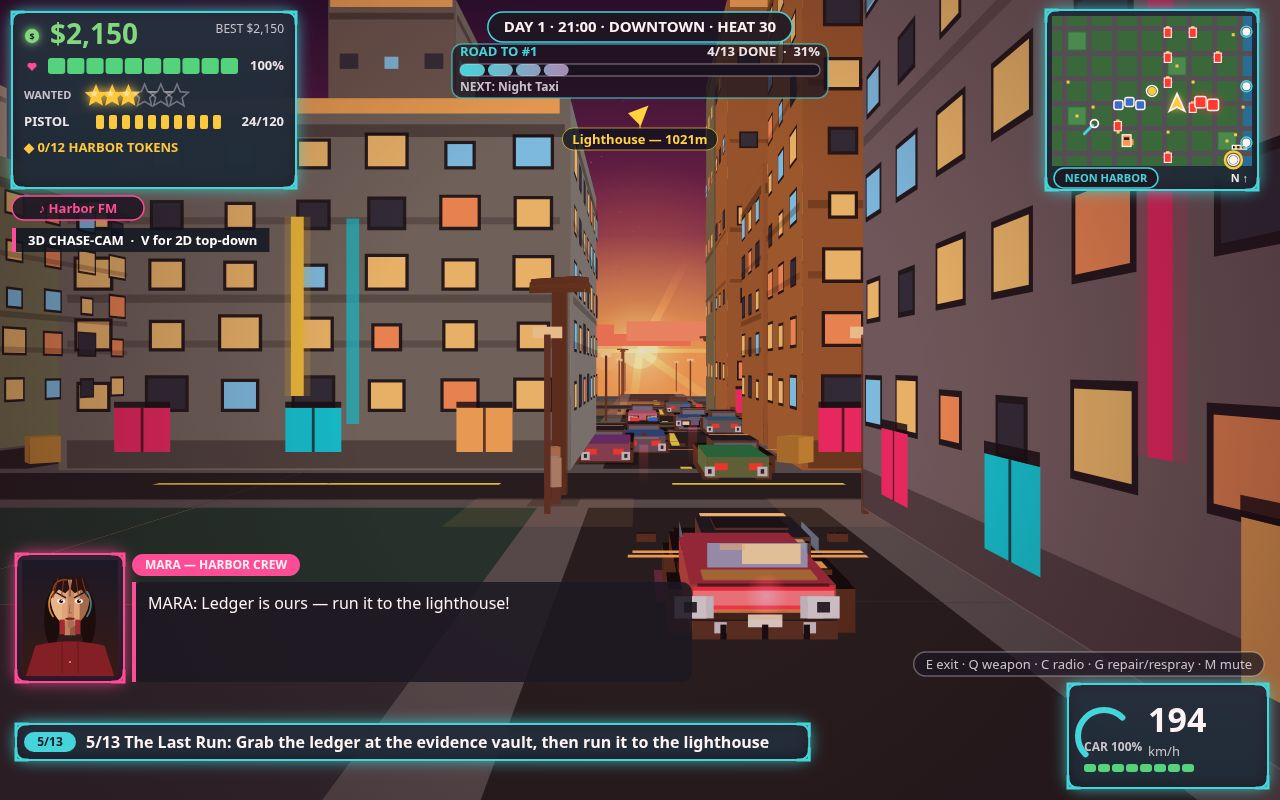
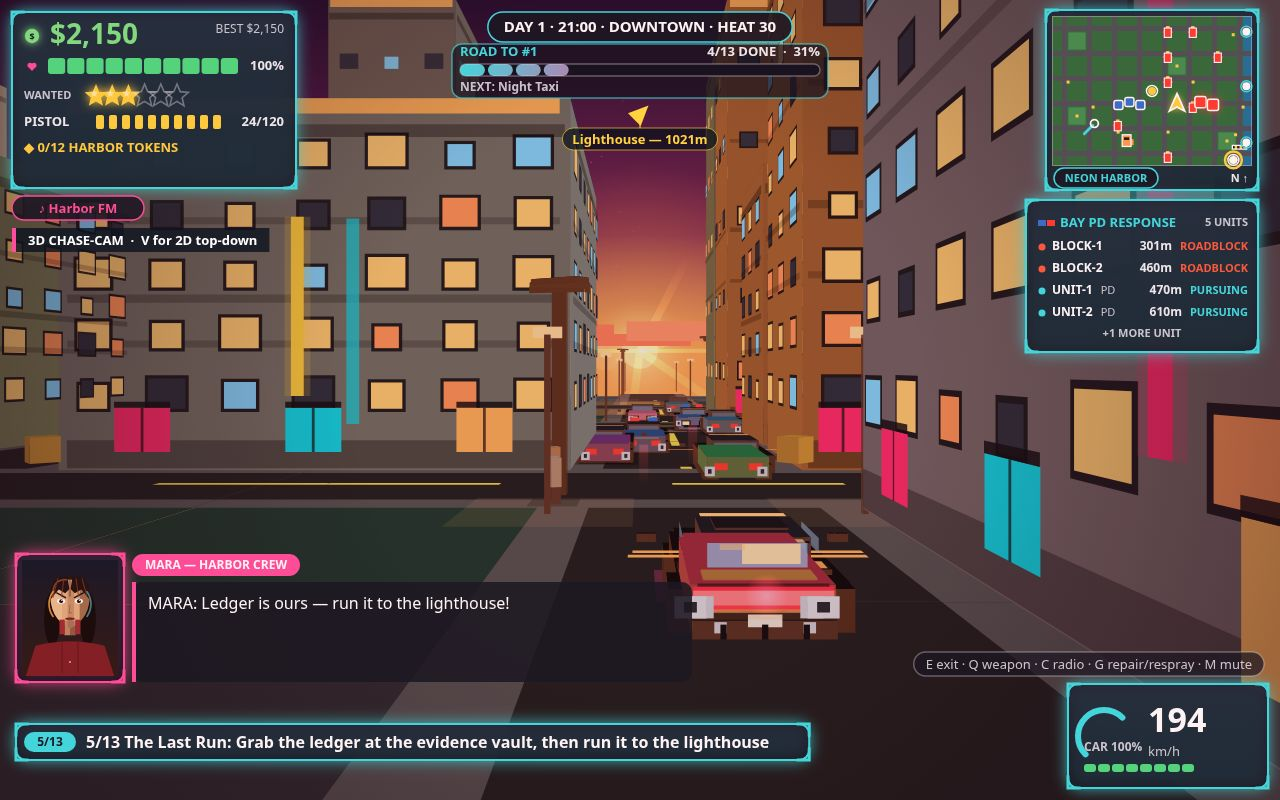
R25h: MINIMAP-PD — minimap SQUARE default (+round preview), BAY PD RESPONSE panel under minimap, MILITARY pill below panel at wanted >= 6 (fix: no double/covered pill); dossier 163.824/163.840 (0 B), check 5/0, M13 17/17

Changed region(s): [[0.7812, 0.2188, 1.0, 0.4688]]

diff --git a/game/src/ui2.js b/game/src/ui2.js
@@ -154,10 +154,29 @@ export function drawMapDot2(c, x, y, r, fill, ring) {
 }
 
 // ---- minimap v2: same world, bigger icons, framed + labeled ----
+// Shape: 'square' (shipped default) or 'round' — preview with ?minimap=round
+// in the URL (shot harness). Juna picks the shipped default; the round
+// variant clips the SAME world to a circle in the SAME slot, so the A/B is
+// shape-only. Title screen keeps its own round minimap (city3d.js, not here).
+function minimapShape() {
+  try {
+    return new URLSearchParams(window.location.search).get('minimap') === 'round' ? 'round' : 'square';
+  } catch (e) { return 'square'; }
+}
 export function drawMinimap2(c, st, x, y, w, h) {
   const sx = w / WORLD_W, sy = h / WORLD_H;
-  drawPanel(c, x - 6, y - 6, w + 12, h + 30, C.neonCyan);
+  const round = minimapShape() === 'round';
+  const cx = x + w / 2, cy = y + h / 2, r = Math.min(w, h) / 2;
   c.save();
+  if (round) {
+    // dark disc backing so the clipped corners read as panel, not void
+    c.fillStyle = 'rgba(10,15,28,0.85)';
+    c.beginPath(); c.arc(cx, cy, r + 6, 0, 7); c.fill();
+    c.beginPath(); c.arc(cx, cy, r, 0, 7); c.clip();
+  } else {
+    drawPanel(c, x - 6, y - 6, w + 12, h + 30, C.neonCyan);
+  }
+  // ---- world (identical for both shapes — only the clip/frame differs) ----
   c.fillStyle = '#2e6b3a'; c.fillRect(x, y, w, h);
   c.fillStyle = '#1d6f9e'; c.fillRect(x + WATER_X * sx, y, (WORLD_W - WATER_X) * sx, h);
   c.fillStyle = '#4a4f57';
@@ -185,10 +204,29 @@ export function drawMinimap2(c, st, x, y, w, h) {
   const p = st.player;
   drawMapPlayer2(c, x + p.x * sx, y + p.y * sy, 14, p.angle);
   c.restore();
-  // label + north arrow
+  // ---- frame (shape-specific) ----
+  if (round) {
+    c.save();
+    c.shadowColor = C.neonCyan; c.shadowBlur = 12;
+    c.lineWidth = 2; c.strokeStyle = C.neonCyan;
+    c.beginPath(); c.arc(cx, cy, r, 0, 7); c.stroke();
+    c.restore();
+    c.lineWidth = 1; c.strokeStyle = 'rgba(238,241,245,0.5)';
+    c.beginPath(); c.arc(cx, cy, r - 3, 0, 7); c.stroke();
+  } else {
+    // 1px inner hairline so the map reads as its own surface (bible §6.5)
+    c.lineWidth = 1; c.strokeStyle = 'rgba(238,241,245,0.35)';
+    c.strokeRect(x + 0.5, y + 0.5, w - 1, h - 1);
+  }
+  // label + north arrow (same strip, both shapes)
   drawPill(c, x + 2, y + h + 2, 104, 20, '#0e1420e6', C.neonCyan);
   T(c, 'NEON HARBOR', x + 54, y + h + 13, 11, C.neonCyan, 'center', 'bold');
   T(c, 'N ↑', x + w - 4, y + h + 13, 11, '#eef1f5', 'right', 'bold');
+  // PD response panel: right column, below the minimap frame (own function,
+  // appended at the end of this file). Called here because this batch owns
+  // drawMinimap2 only — render.js / drawHud2 are untouched. Panel is 232 px
+  // wide, right edge aligned with the minimap frame's right edge.
+  drawPdPanel2(c, st, x + w + 6 - 232, y + h + 34, 232);
 }
 // ---- ROAD TO #1: progress meter toward rank 1 (13 missions = 100%) ----
 // UI-TOP: the meter counts missions DONE (0-based completed count). The
@@ -279,12 +317,18 @@ export function drawHud2(c, st, best, ui, view) {
   drawPill(c, (W2 - rw) / 2, 12, rw, 30, '#0e1420e6', hot ? '#ff8a7a' : C.neonCyan);
   T(c, readout, W2 / 2, 28, 15, hot ? '#ff8a7a' : '#ffffff', 'center', 'bold');
   drawRoadTo1(c, (W2 - 360) / 2, 52, 360, st.missionDone || 0, st.missionTotal || 12, st.nextMission || '');
-  if (st.wanted >= 6) {
-    // UI-TOP: FIXED slot under the minimap (right rail, aligned with its
-    // panel: x W2-234, y 198). The old full-width band at y 118..148 sat
-    // ON the stats panel (red wash over WANTED/PISTOL rows) and ON the
-    // compass label ("Lighthouse — 1021m" at y ~134). This pill never
-    // moves and never overlaps the meter, the compass or the stats.
+  // R25h: the PD panel (drawn by drawMinimap2 below) starts at y200 and
+  // covers this slot, so the fixed pill is drawn ONLY when the panel
+  // will not show (no responding unit/heli). When the panel shows, the
+  // pill is drawn below it by drawPdPanel2 instead — never twice, never hidden.
+  const pol = st.police || {};
+  const pdShow = (pol.units || []).some((u) => u.kind === 'car' || u.kind === 'boat' || u.kind === 'soldier') || (pol.heli && pol.heli.active);
+  if (st.wanted >= 6 && !pdShow) {
+    // UI-TOP: FIXED slot under the minimap (right rail: x W2-234, y 198).
+    // The old full-width band at y 118..148 sat ON the stats panel (red
+    // wash over WANTED/PISTOL rows) and ON the compass label
+    // ("Lighthouse — 1021m" at y ~134). This pill never moves and never
+    // overlaps the meter, the compass or the stats.
     drawPill(c, W2 - 234, 198, 212, 30, '#ff3b30', '#ffffff');
     T(c, '⚠  MILITARY RESPONSE  ⚠', W2 - 128, 213, 13, '#ffffff', 'center', 'bold');
   }
@@ -535,4 +579,101 @@ export function drawPause2(c, view) {
   T(c, 'O — settings', W2 / 2, y + 128, 17, '#c8cdd6', 'center');
   drawPill(c, W2 / 2 - 120, y + h - 48, 240, 30, '#0e1420e6', C.neonYellow);
   T(c, 'Press P or Esc to resume', W2 / 2, y + h - 32, 15, C.neonYellow, 'center', 'bold');
+}
+
+// ---- BAY PD RESPONSE: active pursuing units (UI-MINIMAP-PD batch) ----
+// Wiring: called from drawMinimap2 (the only HUD hook this batch owns —
+// render.js / drawHud2 are untouched, so the panel rides on the minimap's
+// own call). Shows only when wanted >= 1 (progressive disclosure, bible
+// §6.4); hidden at wanted 0. Data is read-only from state.police —
+// police.js is never edited. Callsigns are display-only derivations:
+// police.js stores no callsigns or officer names, so units are numbered
+// per kind (UNIT-1, BOAT-1, HELI-1, BLOCK-1, APC-1, ...). Gunmen are
+// harbor crew, not PD, so they are deliberately NOT listed. Rows are
+// nearest-first, max 4, with a "+N MORE UNITS" footer when more respond.
+// Panel: right column under the minimap, right edge aligned with the
+// minimap frame; drawPanel house style (dark translucent + cyan border +
+// radius 10, bible §6.5).
+export function drawPdPanel2(c, st, x, y, w) {
+  if (Math.floor(st.wanted || 0) < 1) return;
+  const p = st.player;
+  const px = p.inCar && p.car ? p.car.x : p.x;
+  const py = p.inCar && p.car ? p.car.y : p.y;
+  const rows = [];
+  const seen = {};
+  const tag = (k) => { seen[k] = (seen[k] || 0) + 1; return seen[k]; };
+  for (const u of st.police.units || []) {
+    let row = null;
+    if (u.kind === 'car') {
+      if (u.roadblock) {
+        const i = tag('BLOCK');
+        row = { call: 'BLOCK-' + i, type: u.concrete ? 'WALL' : 'AHEAD', status: 'ROADBLOCK', x: u.car.x, y: u.car.y };
+      } else if (u.military) {
+        const apc = u.car.body === 'apc';
+        const i = tag(apc ? 'APC' : 'MIL');
+        row = { call: (apc ? 'APC-' : 'MIL-') + i, type: apc ? 'APC' : 'MIL', status: 'PURSUING', x: u.car.x, y: u.car.y };
+      } else if (u.emergency) {
+        const fire = u.car.body === 'fire';
+        const i = tag(fire ? 'FIRE' : 'MEDIC');
+        row = { call: (fire ? 'FIRE-' : 'MEDIC-') + i, type: fire ? 'FIRE' : 'EMS', status: 'RESPONDING', x: u.car.x, y: u.car.y };
+      } else {
+        const i = tag('UNIT');
+        row = { call: 'UNIT-' + i, type: 'PD', status: 'PURSUING', x: u.car.x, y: u.car.y };
+      }
+    } else if (u.kind === 'boat') {
+      const i = tag('BOAT');
+      row = { call: 'BOAT-' + i, type: 'SEA', status: 'PURSUING', x: u.x, y: u.y };
+    } else if (u.kind === 'soldier') {
+      const i = tag('SOLDIER');
+      row = { call: 'SOLDIER-' + i, type: 'MIL', status: 'PURSUING', x: u.x, y: u.y };
+    }
+    if (row) { row.d = Math.hypot(row.x - px, row.y - py); rows.push(row); }
+  }
+  if (st.police.heli && st.police.heli.active) {
+    rows.push({ call: 'HELI-1', type: 'AIR', status: 'OVERHEAD',
+      d: Math.hypot(st.police.heli.x - px, st.police.heli.y - py) });
+  }
+  if (!rows.length) return;
+  rows.sort((a, b) => a.d - b.d);
+  const shown = rows.slice(0, 4);
+  const extra = rows.length - shown.length;
+  const rowH = 22, headH = 26;
+  const h = 10 + headH + shown.length * rowH + (extra ? 20 : 0) + 8;
+  drawPanel(c, x, y, w, h, C.neonCyan);
+  // header: police light bar + title + unit count
+  c.fillStyle = '#2f6fd0'; c.fillRect(x + 12, y + 20, 8, 6);
+  c.fillStyle = '#ff3b30'; c.fillRect(x + 21, y + 20, 8, 6);
+  T(c, 'BAY PD RESPONSE', x + 34, y + 23, 13, C.neonCyan, 'left', 'bold');
+  T(c, rows.length + (rows.length === 1 ? ' UNIT' : ' UNITS'), x + w - 10, y + 23, 11, '#c8cdd6', 'right', 'bold');
+  const STATUS_COLOR = { PURSUING: C.neonCyan, OVERHEAD: '#ffd23e', ROADBLOCK: '#ff5a3c', RESPONDING: '#7be382' };
+  shown.forEach((r, i) => {
+    const ry = y + 10 + headH + i * rowH;
+    const col = STATUS_COLOR[r.status] || '#eef1f5';
+    const dist = r.d >= 1000 ? (r.d / 1000).toFixed(1) + 'km' : Math.round(r.d) + 'm';
+    c.font = 'bold 11px ' + FONT;
+    const statusW = c.measureText(r.status).width;
+    c.font = 'bold 12px ' + FONT;
+    const distW = c.measureText(dist).width;
+    const rightX = x + w - 10 - statusW - 8 - distW;
+    c.fillStyle = col; c.beginPath(); c.arc(x + 16, ry + 11, 3.5, 0, 7); c.fill();
+    T(c, r.call, x + 26, ry + 11, 12, '#ffffff', 'left', 'bold');
+    // type tag only when it fits clear of the distance column
+    c.font = 'bold 12px ' + FONT;
+    const callW = c.measureText(r.call).width;
+    c.font = '11px ' + FONT;
+    const typeW = c.measureText(r.type).width;
+    if (x + 26 + callW + 8 + typeW + 12 < rightX) {
+      T(c, r.type, x + 26 + callW + 8, ry + 11, 11, '#c8cdd6', 'left');
+    }
+    T(c, dist, rightX, ry + 11, 12, '#eef1f5', 'left', 'bold');
+    T(c, r.status, x + w - 10, ry + 11, 11, col, 'right', 'bold');
+  });
+  if (extra) T(c, '+' + extra + ' MORE UNIT' + (extra === 1 ? '' : 'S'), x + w / 2, y + 10 + headH + shown.length * rowH + 10, 11, '#c8cdd6', 'center', 'bold');
+  // R25h: at wanted >= 6 the military pill moves BELOW the panel (the
+  // fixed y198 slot is covered by this panel). Same size as the R25g
+  // pill, right edge aligned with the panel.
+  if (Math.floor(st.wanted || 0) >= 6) {
+    drawPill(c, x + w - 212, y + h + 8, 212, 30, '#ff3b30', '#ffffff');
+    T(c, '⚠  MILITARY RESPONSE  ⚠', x + w - 106, y + h + 23, 13, '#ffffff', 'center', 'bold');
+  }
 }

diff --git a/game/src/minimap.js b/game/src/minimap.js
@@ -1,14 +1,32 @@
 import { WORLD_H, WORLD_W } from './config.js';
 import { WATER_X } from './city.js';
 import { drawMapBridge, drawMapGas, drawMapHydrant, drawMapMission, drawMapPlayer, drawMapPolice, drawMapWrench } from './ui-art.js';
+// NOTE: this module is currently unimported — the live minimap is drawMinimap2
+// in ui2.js. It is kept shape-compatible with it (same ?minimap=round switch,
+// same slot, same label) so it can be re-enabled without visual drift.
+// Shape: 'square' (shipped default) or 'round' — preview with ?minimap=round.
+function minimapShape() {
+  try {
+    return new URLSearchParams(window.location.search).get('minimap') === 'round' ? 'round' : 'square';
+  } catch (e) { return 'square'; }
+}
 export function drawMinimap(ctx, state, x, y, w, h) {
   const sx = w / WORLD_W;
   const sy = h / WORLD_H;
+  const round = minimapShape() === 'round';
+  const cx = x + w / 2, cy = y + h / 2, r = Math.min(w, h) / 2;
   ctx.save();
-  ctx.globalAlpha = 0.92;
-  ctx.fillStyle = '#0e1420';
-  ctx.fillRect(x - 4, y - 4, w + 8, h + 8);
-  ctx.globalAlpha = 1;
+  if (round) {
+    // dark disc backing so the clipped corners read as panel, not void
+    ctx.fillStyle = 'rgba(10,15,28,0.92)';
+    ctx.beginPath(); ctx.arc(cx, cy, r + 4, 0, Math.PI * 2); ctx.fill();
+    ctx.beginPath(); ctx.arc(cx, cy, r, 0, Math.PI * 2); ctx.clip();
+  } else {
+    ctx.globalAlpha = 0.92;
+    ctx.fillStyle = '#0e1420';
+    ctx.fillRect(x - 4, y - 4, w + 8, h + 8);
+    ctx.globalAlpha = 1;
+  }
   ctx.fillStyle = '#2e6b3a';
   ctx.fillRect(x, y, w, h);
   ctx.fillStyle = '#1d6f9e';
@@ -123,4 +141,22 @@ export function drawMinimap(ctx, state, x, y, w, h) {
   const p = state.player;
   drawMapPlayer(ctx, x + p.x * sx, y + p.y * sy, 10, p.angle);
   ctx.restore();
+  // ---- frame (shape-specific) + label strip (same for both shapes) ----
+  if (round) {
+    ctx.lineWidth = 2; ctx.strokeStyle = '#37e0e6';
+    ctx.beginPath(); ctx.arc(cx, cy, r, 0, Math.PI * 2); ctx.stroke();
+    ctx.lineWidth = 1; ctx.strokeStyle = 'rgba(238,241,245,0.5)';
+    ctx.beginPath(); ctx.arc(cx, cy, r - 3, 0, Math.PI * 2); ctx.stroke();
+  } else {
+    ctx.lineWidth = 1; ctx.strokeStyle = '#37e0e6';
+    ctx.strokeRect(x - 4.5, y - 4.5, w + 9, h + 9);
+  }
+  ctx.font = 'bold 11px system-ui';
+  ctx.textAlign = 'center'; ctx.textBaseline = 'middle';
+  ctx.fillStyle = '#37e0e6';
+  ctx.fillText('NEON HARBOR', x + w / 2, y + h + 12);
+  ctx.textAlign = 'right';
+  ctx.fillStyle = '#eef1f5';
+  ctx.fillText('N ↑', x + w - 4, y + h + 12);
+  ctx.textAlign = 'left';
 }
